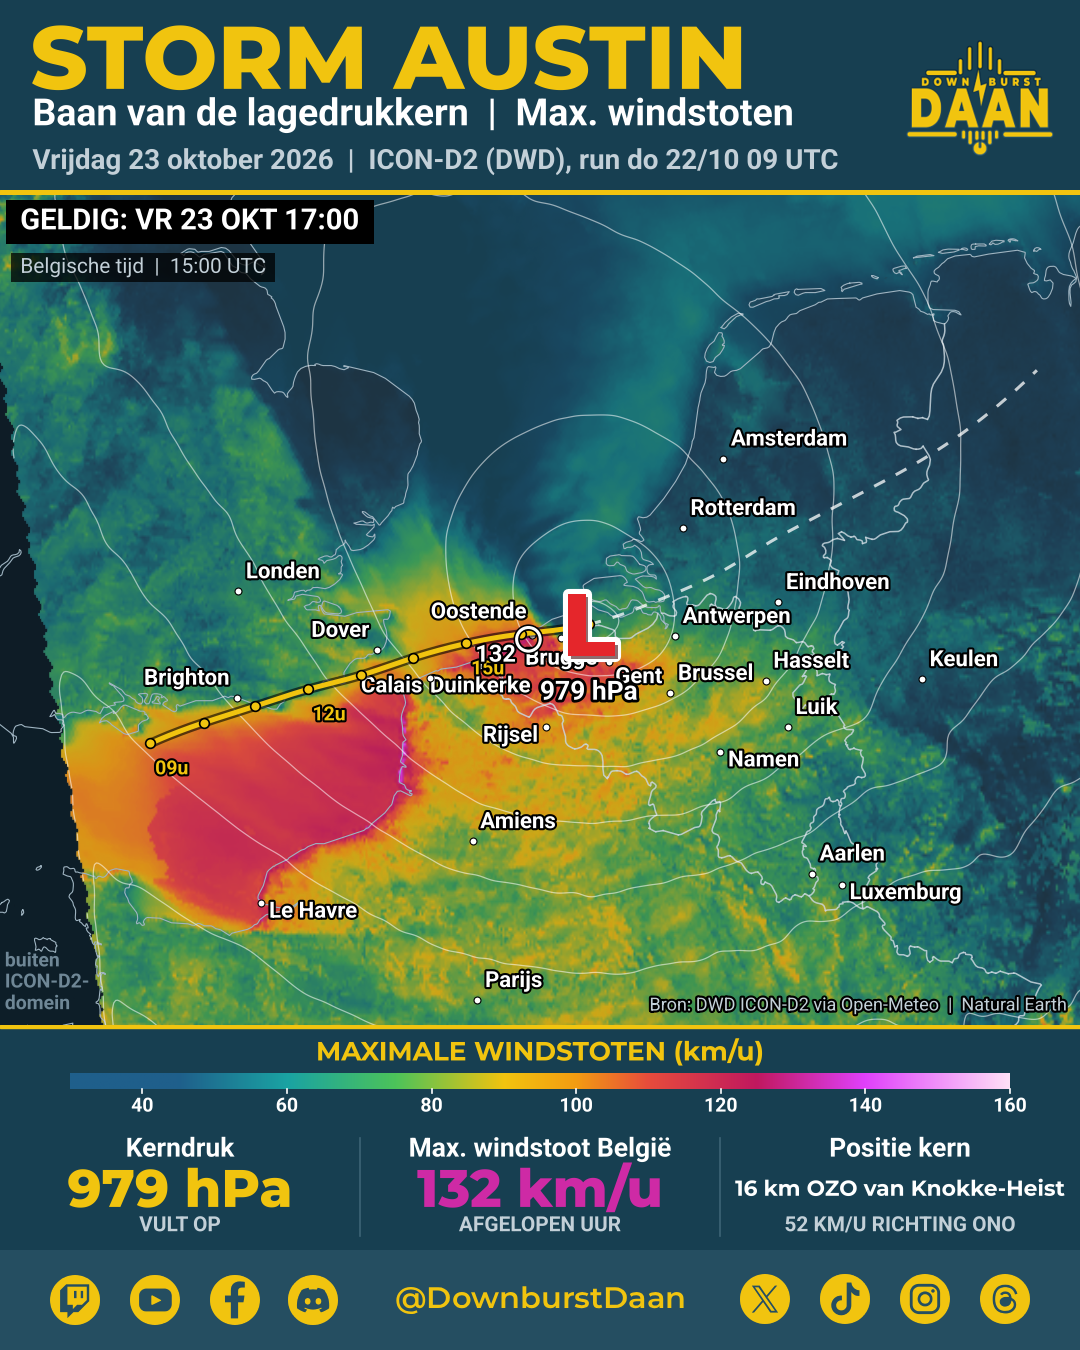
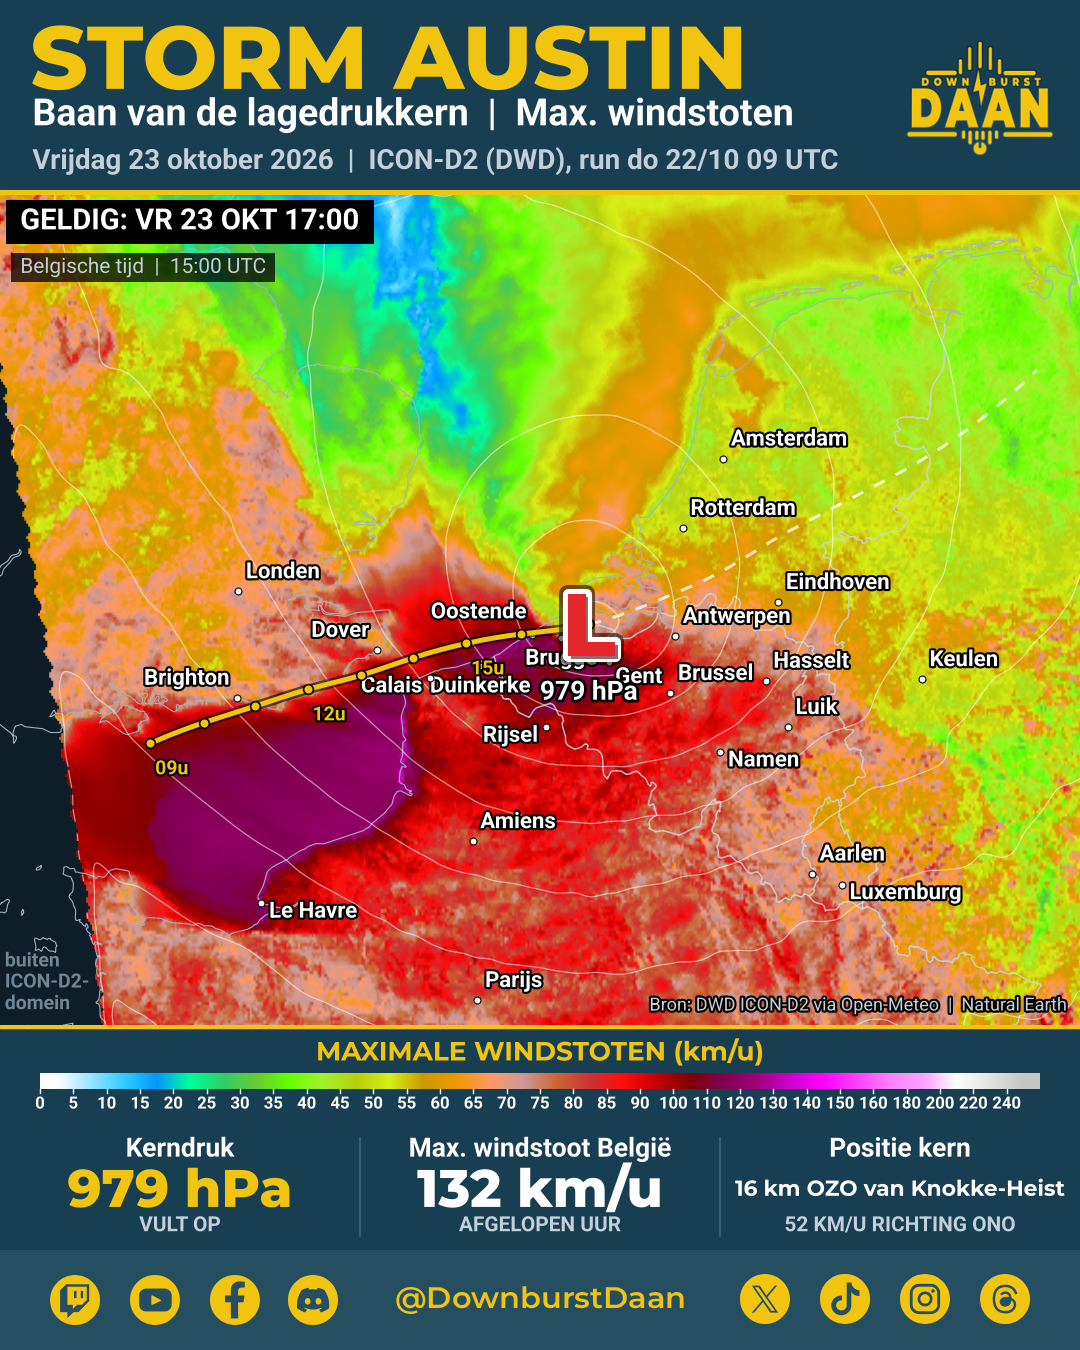
Windstoten in Meteociel-kleurenschaal (vloeiend), cirkel max. windstoot verwijderd
Claude-Session: https://claude.ai/code/session_014jJBsaEDgG1zdqphR26BCF

diff --git a/scripts/render_animation.py b/scripts/render_animation.py
@@ -24,7 +24,7 @@ matplotlib.use("Agg")
 import matplotlib.pyplot as plt
 import matplotlib.patheffects as pe
 import numpy as np
-from matplotlib.colors import LinearSegmentedColormap, to_rgba
+from matplotlib.colors import LinearSegmentedColormap
 from matplotlib.font_manager import FontProperties
 from matplotlib.path import Path
 from PIL import Image
@@ -69,24 +69,26 @@ ROB = lambda s: F("Roboto-Regular", s)
 
 OUTLINE = [pe.withStroke(linewidth=3, foreground="#000000")]
 
-# Windstoten in km/u
-GUST_MIN, GUST_MAX = 30, 160
-_stops = [
-    (30, "#1f5f8b", 0.00),
-    (45, "#1f5f8b", 0.25),
-    (60, "#1aa3a3", 0.50),
-    (75, "#4cc35a", 0.68),
-    (90, GOLD, 0.82),
-    (100, "#f39c12", 0.90),
-    (110, "#e74c3c", 0.94),
-    (125, "#c0185f", 0.95),
-    (140, "#e040fb", 0.96),
-    (160, "#ffe0f7", 0.97),
-]
+# Windstoten in km/u: kleurenschaal van Meteociel (ICON-D2 "Rafales de vent max").
+# Elke klasse krijgt haar kleur in het midden; daartussen wordt vloeiend overgevloeid.
+# De klassen zijn ongelijk breed (5 → 10 → 20 km/u), dus waarden worden eerst naar
+# klasse-index omgezet, zodat elke klasse even breed is op de schaal, net als bij Meteociel.
+GUST_BOUNDS = np.array(list(range(0, 90, 5)) + list(range(90, 160, 10)) + [160, 180, 200, 220, 240, 260], float)
+GUST_COLORS = ["#ffffff", "#97e6ff", "#33ccff", "#0099ff", "#00ff99", "#33cc66", "#66cc33", "#66ff00",
+               "#a4f22f", "#b7cf0e", "#d6f017", "#cc9900", "#ee9900", "#ff9966", "#cc9999", "#cc6633",
+               "#cc3333", "#ff0d0d", "#c60000", "#800000", "#800050", "#a00077", "#cc00cc", "#ff00ff",
+               "#ff40ff", "#ff80ff", "#ffa0ff", "#ffffff", "#e3e3e3", "#c6c6c6"]
+N_CLASSES = len(GUST_COLORS)
+assert len(GUST_BOUNDS) == N_CLASSES + 1
+_pos = (np.arange(N_CLASSES) + 0.5) / N_CLASSES
 GUST_CMAP = LinearSegmentedColormap.from_list(
-    "gusts", [((v - GUST_MIN) / (GUST_MAX - GUST_MIN), to_rgba(c, a)) for v, c, a in _stops], N=512)
-GUST_CMAP_OPAQUE = LinearSegmentedColormap.from_list(
-    "gusts_opaque", [((v - GUST_MIN) / (GUST_MAX - GUST_MIN), to_rgba(c, 1.0)) for v, c, _ in _stops], N=512)
+    "meteociel_gusts", [(0.0, GUST_COLORS[0])] + list(zip(_pos, GUST_COLORS)) + [(1.0, GUST_COLORS[-1])], N=1024)
+
+
+def gust_index(v):
+    """km/u -> positie 0..1 op de klasse-schaal."""
+    return np.interp(v, GUST_BOUNDS, np.arange(N_CLASSES + 1)) / N_CLASSES
+
 
 CITIES = [  # (naam, lon, lat, label-dx, label-dy, ha)
     ("Brussel", 4.35, 50.85, 0.08, 0.05, "left"),
@@ -342,8 +344,8 @@ def draw(h, path):
     P, G = I.fields(h)
     lat, lon = D["lat"], D["lon"]
     ext = [lon[0] - 0.01, lon[-1] + 0.01, lat[0] - 0.01, lat[-1] + 0.01]
-    Gm = np.ma.masked_array(np.clip(G, GUST_MIN, GUST_MAX), D["mask"] | (G < GUST_MIN))
-    m.imshow(Gm, origin="lower", extent=ext, cmap=GUST_CMAP, vmin=GUST_MIN, vmax=GUST_MAX,
+    Gm = np.ma.masked_array(gust_index(G), D["mask"])
+    m.imshow(Gm, origin="lower", extent=ext, cmap=GUST_CMAP, vmin=0, vmax=1,
              interpolation="bilinear", zorder=2, aspect="auto")
     # Buiten het ICON-D2 domein
     out = np.ma.masked_array(np.ones_like(G), ~D["mask"])
@@ -393,15 +395,11 @@ def draw(h, path):
     Gb = np.where(be, G, -1)
     bi, bj = np.unravel_index(np.argmax(Gb), Gb.shape)
     gmax_be = G[bi, bj]
-    m.plot(lon[bj], lat[bi], marker="o", ms=17, mfc="none", mec=WHITE, mew=2.2, zorder=10,
-           path_effects=[pe.withStroke(linewidth=4.5, foreground="#000000")])
-    side = 1 if lon[bj] >= lo else -1  # label aan de kant weg van de L
-    m.text(lon[bj] + side * 0.13, lat[bi] - 0.03, f"{gmax_be:.0f}", fontproperties=ROB_B(17), color=WHITE,
-           ha="left" if side > 0 else "right", va="top", path_effects=OUTLINE, zorder=10)
 
     # De L
     m.text(lo, la, "L", fontproperties=MONT_XB(64), color="#e5262b", ha="center", va="center", zorder=12,
-           path_effects=[pe.withStroke(linewidth=8, foreground=WHITE),
+           path_effects=[pe.withStroke(linewidth=13, foreground="#000000", alpha=0.55),
+                         pe.withStroke(linewidth=8, foreground=WHITE),
                          pe.SimplePatchShadow(offset=(2, -2), alpha=0.6), pe.Normal()])
     m.text(lo, la - 0.36, f"{pc:.0f} hPa", fontproperties=ROB_B(19), color=WHITE, ha="center", va="top",
            zorder=12, path_effects=[pe.withStroke(linewidth=4, foreground="#000000")])
@@ -425,14 +423,14 @@ def draw(h, path):
     # kleurenschaal
     s.text(W / 2, STATS_H - 26, "MAXIMALE WINDSTOTEN (km/u)", fontproperties=MONT_B(19), color=GOLD,
            ha="center", va="center")
-    cb_x0, cb_x1, cb_y, cb_h = 70, W - 70, STATS_H - 64, 16
-    grad = np.linspace(GUST_MIN, GUST_MAX, 512)[None, :]
-    s.imshow(grad, extent=[cb_x0, cb_x1, cb_y, cb_y + cb_h], cmap=GUST_CMAP_OPAQUE, vmin=GUST_MIN,
-             vmax=GUST_MAX, aspect="auto", zorder=2)
-    for v in range(40, GUST_MAX + 1, 20):
-        xv = cb_x0 + (v - GUST_MIN) / (GUST_MAX - GUST_MIN) * (cb_x1 - cb_x0)
-        s.plot([xv, xv], [cb_y - 4, cb_y], color=WHITE, lw=1.2)
-        s.text(xv, cb_y - 8, f"{v}", fontproperties=ROB_B(14), color=WHITE, ha="center", va="top")
+    cb_x0, cb_x1, cb_y, cb_h = 40, W - 40, STATS_H - 64, 16
+    grad = np.linspace(0, 1, 1024)[None, :]
+    s.imshow(grad, extent=[cb_x0, cb_x1, cb_y, cb_y + cb_h], cmap=GUST_CMAP, vmin=0, vmax=1,
+             aspect="auto", zorder=2)
+    for v in GUST_BOUNDS[:-1]:
+        xv = cb_x0 + float(gust_index(v)) * (cb_x1 - cb_x0)
+        s.plot([xv, xv], [cb_y - 4, cb_y], color=WHITE, lw=1.0)
+        s.text(xv, cb_y - 7, f"{v:.0f}", fontproperties=ROB_B(12), color=WHITE, ha="center", va="top")
 
     # drie kolommen
     k = min(int(np.floor(h)), I.n - 2)
@@ -441,10 +439,9 @@ def draw(h, path):
     dla = float(I.slat(h, 1)); dlo = float(I.slon(h, 1))
     speed = haversine(la, lo, la + dla, lo + dlo)
     heading = compass(bearing(la, lo, la + dla, lo + dlo))
-    gcol = GUST_CMAP_OPAQUE((np.clip(gmax_be, GUST_MIN, GUST_MAX) - GUST_MIN) / (GUST_MAX - GUST_MIN))
     cols = [
         ("Kerndruk", f"{pc:.0f} hPa", GOLD, trend.upper(), GREY),
-        ("Max. windstoot België", f"{gmax_be:.0f} km/u", gcol, "AFGELOPEN UUR", GREY),
+        ("Max. windstoot België", f"{gmax_be:.0f} km/u", WHITE, "AFGELOPEN UUR", GREY),
         ("Positie kern", describe_position(la, lo), WHITE, f"{speed:.0f} KM/U RICHTING {heading}", GREY),
     ]
     cw = W / 3

diff --git a/README.md b/README.md
@@ -50,6 +50,14 @@ Tussen twee modeluren worden 16 tussenbeelden berekend.
 De tussenbeelden zijn een visuele interpolatie. De echte modelwaarden horen bij
 de hele uren.
 
+### Kleurenschaal windstoten
+
+De kleuren volgen de schaal van Meteociel voor ICON-D2 ("Rafales de vent max"),
+met 30 klassen van 0 tot 240+ km/u. Elke klasse krijgt haar kleur in het midden
+en daartussen vloeien de kleuren zonder harde grenzen in elkaar over. De klassen
+zijn ongelijk breed (stappen van 5, 10 en 20 km/u), maar staan even breed op de
+kleurenbalk, net als bij Meteociel.
+
 ## Opnieuw maken
 
 ```bash
